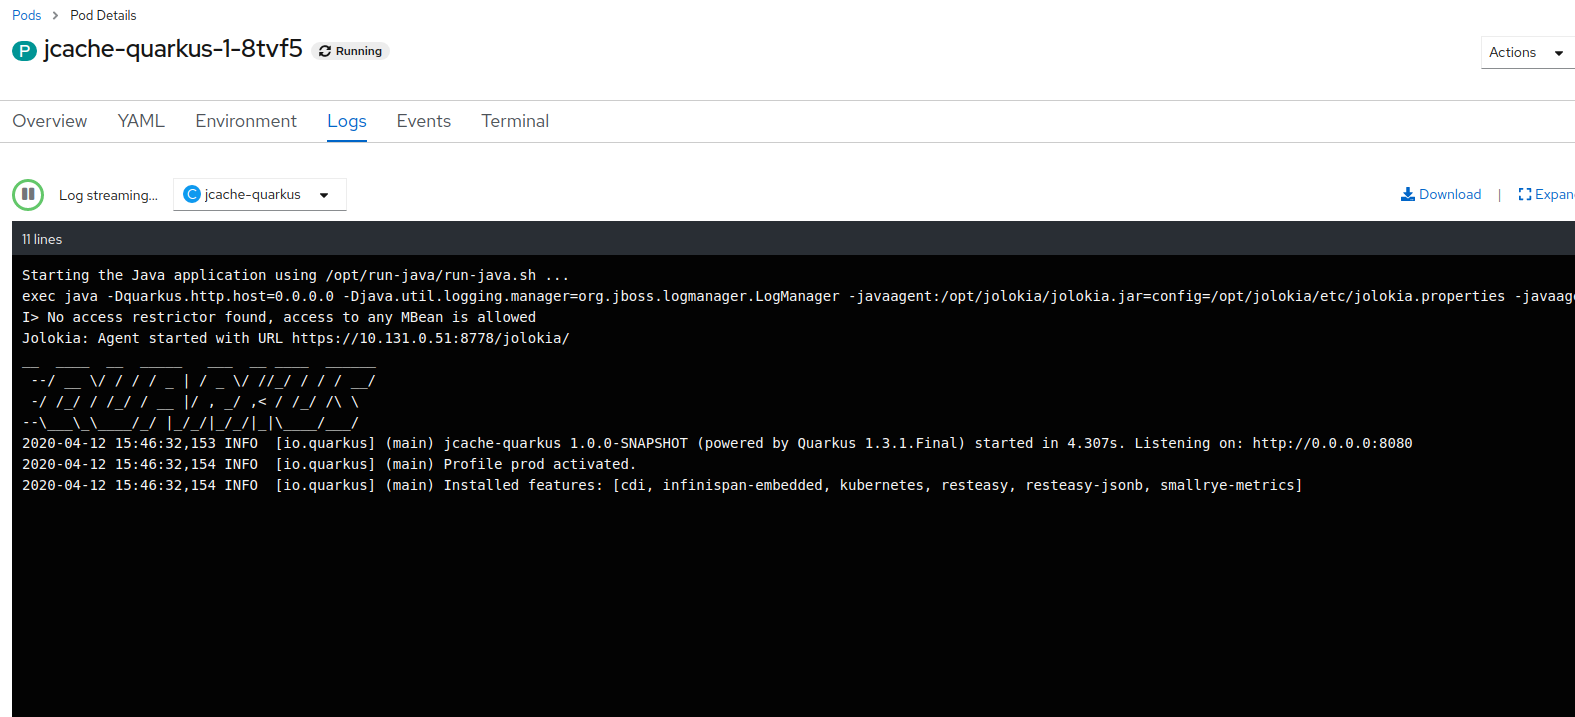
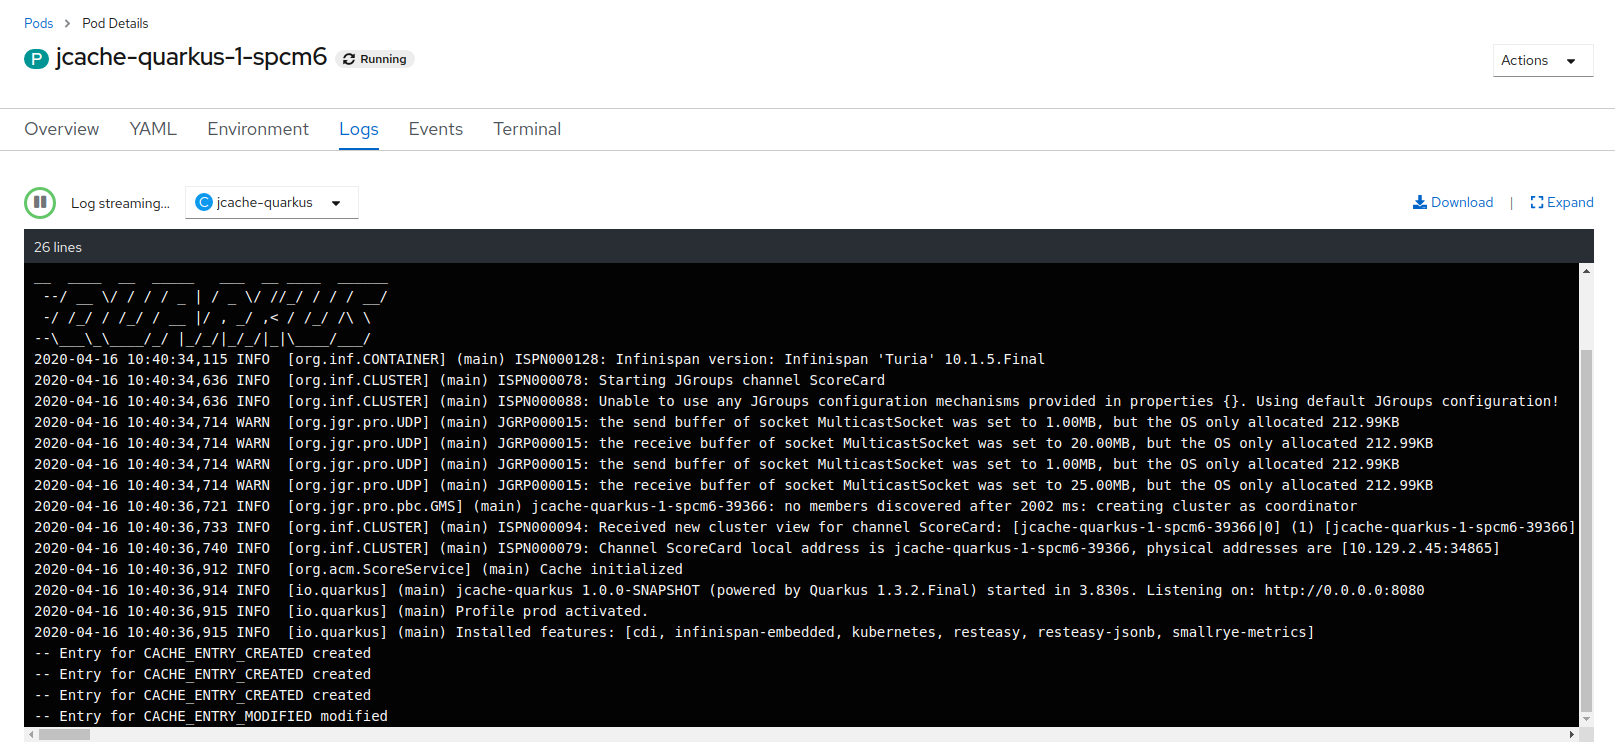
add embedeed-cluster reviewed

diff --git a/dg8-embedded-quarkus/src/main/java/org/acme/ScoreService.java b/dg8-embedded-quarkus/src/main/java/org/acme/ScoreService.java
@@ -23,7 +23,7 @@ import org.infinispan.distribution.group.Grouper;
 import org.infinispan.eviction.EvictionType;
 import org.infinispan.manager.DefaultCacheManager;
 import org.infinispan.manager.EmbeddedCacheManager;
-
+import org.infinispan.configuration.global.GlobalConfigurationBuilder;
 
 @ApplicationScoped
 public class ScoreService {
